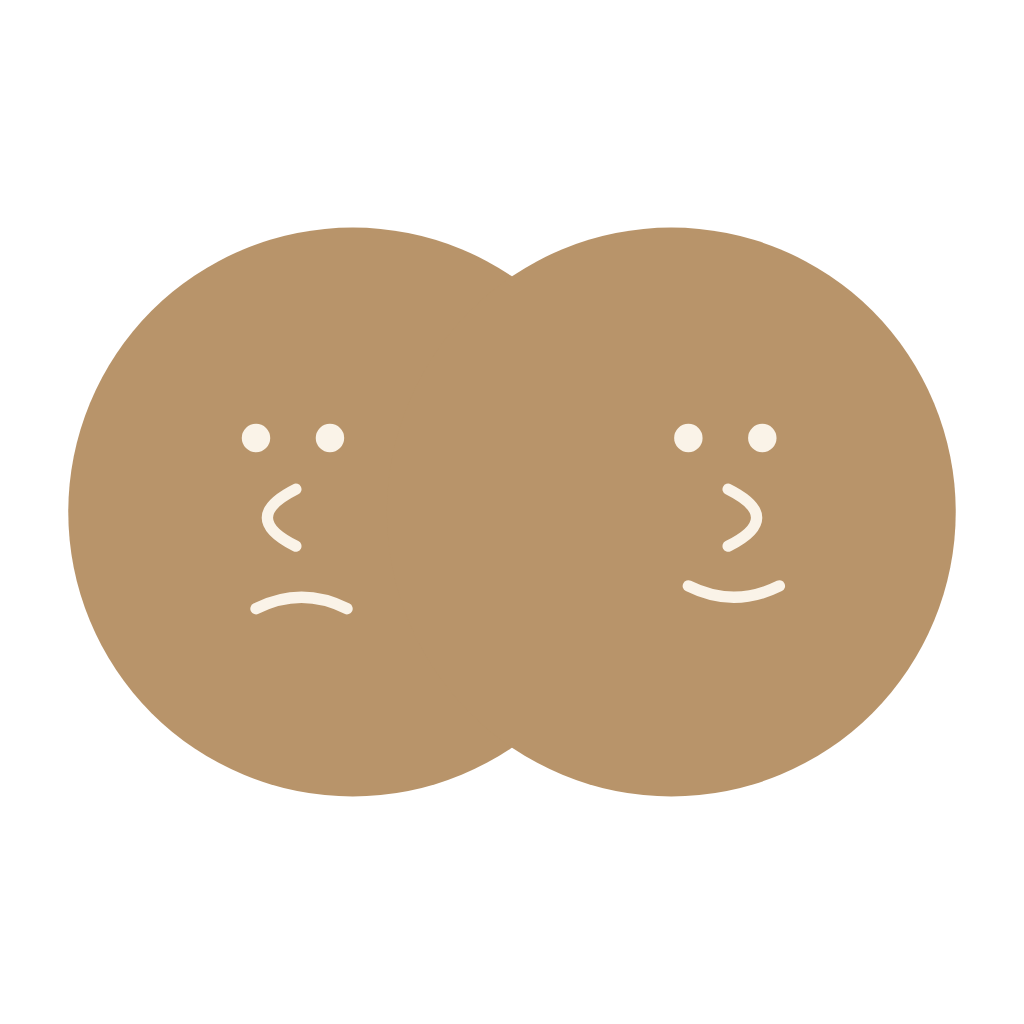
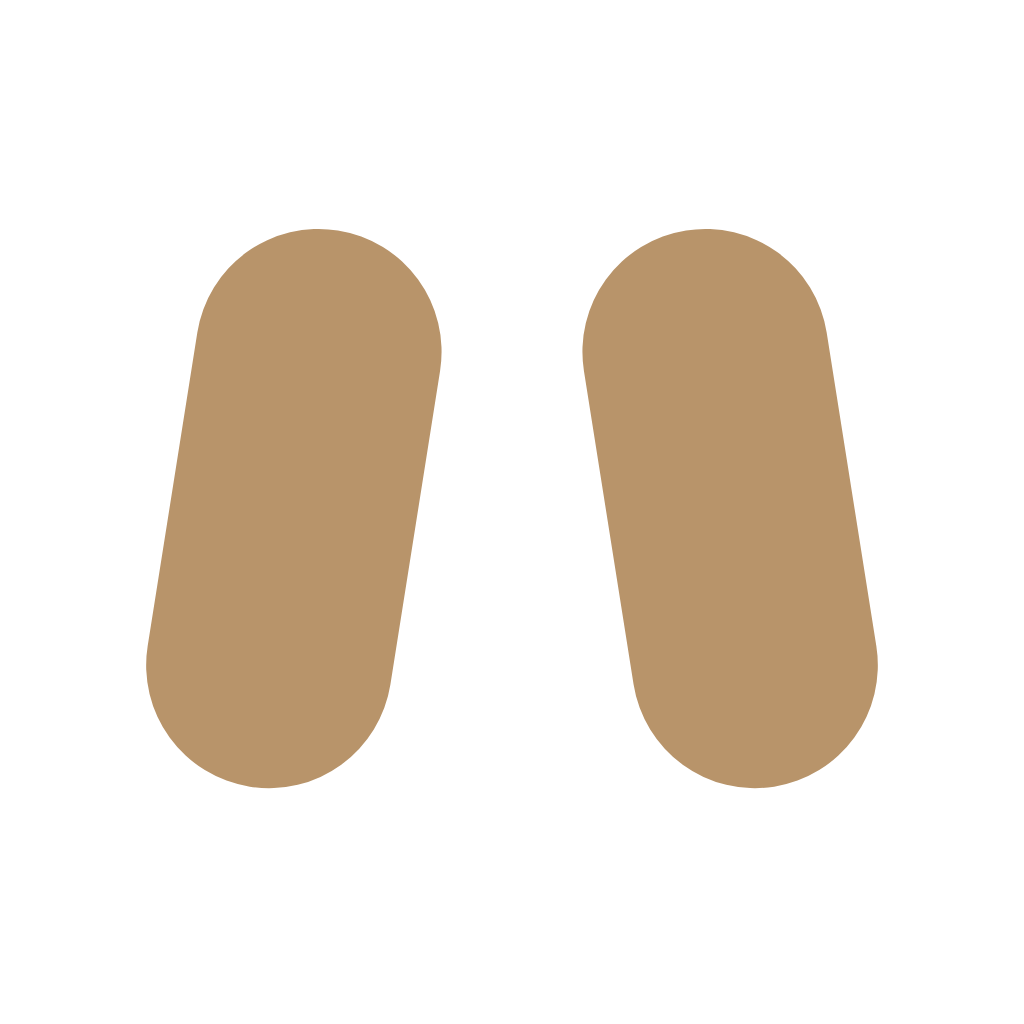
feat(brand): новая иконка и название «не один»
Иконка — два тёплых силуэта, наклонены навстречу сверху.
Название изменено с «!один» на «не один» в app.json, LoginScreen, RegisterScreen.

diff --git a/ustal/screens/LoginScreen.js b/ustal/screens/LoginScreen.js
@@ -98,7 +98,7 @@ export default function LoginScreen({ navigation }) {
         {/* Лого */}
         <View style={styles.logoArea}>
           <Image source={require('../assets/icon.png')} style={styles.appIcon} />
-          <Text style={styles.appName}>!один</Text>
+          <Text style={styles.appName}>не один</Text>
         </View>
 
         <Text style={styles.title}>Всё достало?</Text>

diff --git a/ustal/screens/RegisterScreen.js b/ustal/screens/RegisterScreen.js
@@ -116,7 +116,7 @@ export default function RegisterScreen({ navigation }) {
           <View style={styles.logoCircle}>
             <Ionicons name="moon" size={22} color={colors.accent} />
           </View>
-          <Text style={styles.appName}>устал</Text>
+          <Text style={styles.appName}>не один</Text>
         </View>
 
         <Text style={styles.title}>Расскажи о себе</Text>
